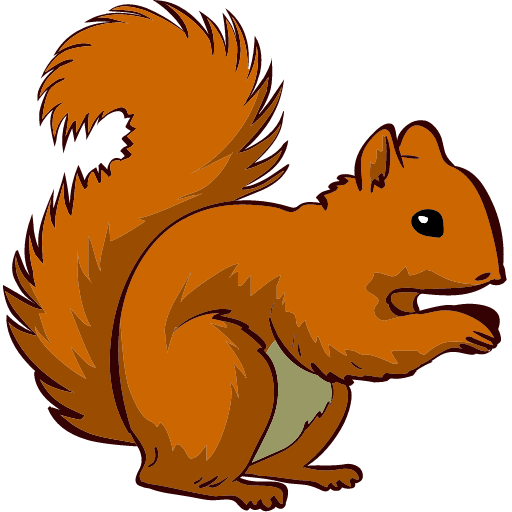
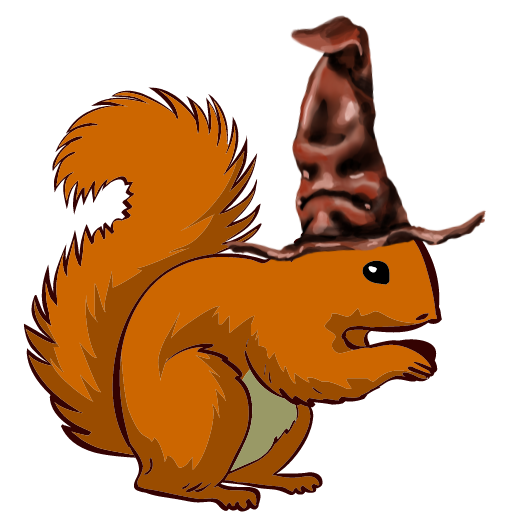
added info, title and further styles

diff --git a/sorting.html b/sorting.html
@@ -4,13 +4,22 @@
     <meta charset="UTF-8">
     <meta http-equiv="X-UA-Compatible" content="IE=edge">
     <meta name="viewport" content="width=device-width, initial-scale=1.0">
+    <link
+    rel="stylesheet"
+    href="https://cdnjs.cloudflare.com/ajax/libs/font-awesome/5.13.1/css/all.min.css"
+    integrity="sha256-2XFplPlrFClt0bIdPgpz8H7ojnk10H69xRqd9+uTShA="
+    crossorigin="anonymous"
+  />
     <link rel="stylesheet" href="css/sorting.css">
     <title>Sorting Visualizer</title>
 </head>
 <body>
     <div class="navbar">
-        <button class="nav-item" id="generate-array" onclick="generatearray(), generate_idx();">Generate New Array</button>
+        <div class="title">Hungry Hackee Hunts</div>
+        <button class="nav-item"><a href="maze.html" style="text-decoration: none; color: black;">Back to Level 1</a></button> 
+        <!-- <button class="nav-item" id="generate-array" onclick="generatearray(), generate_idx();">Generate New Array</button> -->
         <button class="nav-item" onclick="QuickSort(0, 14)">Quick Sort</button> 
+        <div class="nav-info"><i class="fas fa-lightbulb" style="color: rgb(241, 172, 44);"></i> Help Hackee to get the Walnuts</div>
     </div>
 
     <div class="container">

diff --git a/css/sorting.css b/css/sorting.css
@@ -1,4 +1,5 @@
 @import url('https://fonts.googleapis.com/css2?family=Frank+Ruhl+Libre:wght@500&display=swap');
+@import url('https://fonts.googleapis.com/css2?family=Chewy&display=swap');
 
 * {
     margin: 0;
@@ -19,9 +20,15 @@ body {
 .navbar {
 	display: flex;
 	justify-content: center;
-	color: #013236;
-	font-family: 'Frank Ruhl Libre', serif;
-	font-size: 1.2rem;
+}
+
+.title {
+    position: absolute;
+    left: 20px;
+    top: 15px;
+    color: #035F50;
+    font-family: 'Chewy', cursive;
+    font-size: larger;
 }
 
 .nav-item {
@@ -33,11 +40,28 @@ body {
 	border-top-left-radius: 20px;
 	border-top-right-radius: 20px;
 	border-bottom-right-radius: 20px;
+    font-weight: 500;
+	font-family: 'Frank Ruhl Libre', serif;
+	font-size: 1rem;
+    border-style: none;
+}
+
+.nav-info {
+	padding: 7px 10px;
+    margin-top: 10px; 
+	margin-right: 20px;
+	background-color: rgb(248,253,187);
+	border-top-left-radius: 20px;
+	border-top-right-radius: 20px;
+	border-bottom-right-radius: 20px;
+    font-weight: 500;
+	font-family: 'Frank Ruhl Libre', serif;
+	font-size: 1rem;
+    border-style: none;
 }
 
 .nav-item:hover {
 	border: 3px solid #013236;
-
 }
 
 .container {

diff --git a/css/maze.css b/css/maze.css
@@ -1,4 +1,5 @@
 @import url('https://fonts.googleapis.com/css2?family=Frank+Ruhl+Libre:wght@500&display=swap');
+@import url('https://fonts.googleapis.com/css2?family=Chewy&display=swap');
 
 * {
     margin: 0;
@@ -65,14 +66,34 @@ body {
 	margin: 0 10px 10px 10px;
 
 	font-family: 'Frank Ruhl Libre', serif;
-	font-size: 1.2rem;
+	font-size: 1rem;
+	font-weight: 500;
 }
+
+.title {
+    position: absolute;
+    left: 20px;
+    top: 10px;
+    color: #035F50;
+    font-family: 'Chewy', cursive;
+    font-size: larger;
+}
+
 
 .generate-maze {
 	padding: 3px 10px;
 	margin-right: 20px;
 	margin-left: 20px;
 	cursor: pointer;
+	background-color: rgb(248,253,187);
+	border-top-left-radius: 20px;
+	border-top-right-radius: 20px;
+	border-bottom-right-radius: 20px;
+}
+
+.info {
+	padding: 3px 10px;
+	margin-left: 20px;
 	background-color: rgb(248,253,187);
 	border-top-left-radius: 20px;
 	border-top-right-radius: 20px;

diff --git a/maze.html b/maze.html
@@ -15,11 +15,11 @@
   </head>
   <body>
     <div class="navbar">
+      <div class="title">Hungry Hackee Hunts</div>
       <div class="generate-maze">Generate New Maze</div>
       <div class="visualize-maze">Visualize</div>
       <div class="checkbox"><i class="fas fa-check"></i></div>
-      <!-- <div class="next">Next</div> -->
-      <!-- <div id="button"><a href="next.html">Next</a></div> -->
+      <div class="info"><i class="fas fa-lightbulb" style="color: rgb(241, 172, 44);"></i> Help Hackee solve the maze to reach Level 2</div>
     </div>
   </body>
   <script type="text/javascript" src="js/cell.js"></script>

diff --git a/js/cell.js b/js/cell.js
@@ -1,7 +1,7 @@
 const nrows = Math.floor(innerHeight / 45) - 3;
 const ncols = Math.floor(innerWidth / 45) - 1;
 const hackee = `<img src="../img/hackee.png" height="27px" width="27px"></img>`;
-const walnut = `<img src="../img/walnut.png" height="27px" width="27px"></img>`;
+const walnut = `<img src="../img/sorting-hat.png" height="27px" width="27px"></img>`;
 
 function createCells() {
 	for (let i = 0; i < nrows; i++) {

diff --git a/js/sorting.js b/js/sorting.js
@@ -143,3 +143,6 @@ async function QuickSort(l, r, delay = 100) {
     await QuickSort(pivot_idx + 1, r);
   }
 }
+
+generatearray();
+generate_idx();
